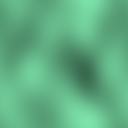
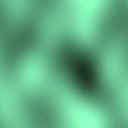
The forage walls were indistinguishable from its floor
Someone watched the video and said the walls look the same as the ground. They
did. Measured, the two textures had contrast 0.126 and 0.122 and the same
dominant spatial period -- identical statistics with a brightness offset.

That offset is not a cue. A fly photoreceptor adapts the mean away, so what is
left to tell a surface by is the scale and contrast of its structure, and those
were the same. The d-prime of 1.86 I quoted when building the arena measured
separability of MEAN LUMINANCE, which is exactly the quantity adaptation
removes. I measured the one cue the animal cannot use and called the arena
done.

Fixed by setting both textures to explicit contrasts rather than to amplitudes
that happened to land in the same place: wall 0.22 against ground 0.08, a
factor of 2.7, with mean 174 against 106 and six times the local detail. Three
independent cues, two of which survive adaptation.

This also confounded a result. behav_forage put the intact model at -5.00,
worse than the striped arena, and that was read as the arena being harder. It
may have been the arena being unreadable. paper/data/behav_forage2 re-runs it
on the same seeds with the fix.

Claude-Session: https://claude.ai/code/session_01D3g1XNadVBbYAqNyaXtrY3

diff --git a/scripts/build_forage_arena.py b/scripts/build_forage_arena.py
@@ -95,6 +95,37 @@ BANDWIDTH = 1.2            # cycles; how tightly power sits on the period
 WALL_MEAN = 175.0
 WALL_HALF = 70.0
 
+# GROUND, and it must not look like the wall. Measured on the first version,
+# the two textures had contrast 0.126 against 0.122 and the same dominant
+# spatial period -- identical statistics with a brightness offset. That is no
+# cue at all to a fly, whose photoreceptors adapt the mean away; what is left
+# to tell a surface by is the SCALE and CONTRAST of its structure. So the
+# ground is built coarse and soft where the wall is fine and hard.
+FLOOR_MEAN = 118.0
+FLOOR_PERIOD_PX = 128      # as coarse as a 128 px tile can hold
+
+# Contrast is the cue that survives, so it is set explicitly rather than left
+# to whatever the noise happens to produce. Scale separation is limited here by
+# geometry -- the ground is nearer than the wall, so equal world-sized features
+# subtend MORE angle on the floor, which works against making the floor look
+# coarser. Contrast and mean do not have that problem.
+WALL_CONTRAST = 0.22       # sd/mean: hard-edged, and what the detectors read
+FLOOR_CONTRAST = 0.08      # soft, a third of the wall's
+
+
+def _to_contrast(img, mean: float, contrast: float):
+    """Rescale a zero-mean pattern to an exact mean and sd/mean ratio.
+
+    Setting the amplitude and hoping is how the wall and the ground ended up
+    with contrasts of 0.126 and 0.122 -- indistinguishable -- while their
+    nominal half-ranges differed by half. What a fly discriminates surfaces by
+    is contrast, because adaptation removes the mean, so contrast is the thing
+    to set exactly rather than approximately.
+    """
+    z = img - img.mean()
+    z = z / (z.std() + 1e-9)
+    return mean + z * (mean * contrast)
+
 
 def wall_texture(size: int = 128, seed: int = 7) -> Image.Image:
     """Band-pass noise: local vertical edges everywhere, no tall bar anywhere.
@@ -138,9 +169,30 @@ def wall_texture(size: int = 128, seed: int = 7) -> Image.Image:
     phase = rng.uniform(0, 2 * np.pi, (size, size))
     img = np.real(np.fft.ifft2(ring * np.exp(1j * phase)))
     img -= img.mean(axis=0, keepdims=True)      # kill the tall-bar component
-    img = img / (np.abs(img).max() + 1e-9)
-    img = WALL_MEAN + img * WALL_HALF           # brighter than the ground
+    img = _to_contrast(img, WALL_MEAN, WALL_CONTRAST)
     rgb = np.stack([img * 0.55, img, img * 0.75], axis=-1)   # green-weighted
+    return Image.fromarray(rgb.clip(0, 255).astype("uint8"))
+
+
+def floor_texture(size: int = 128, seed: int = 11) -> Image.Image:
+    """Ground: coarse, soft, and dimmer than the wall.
+
+    A walking fly reads its ventral optic flow off this, so it needs structure;
+    what it must NOT have is the wall's structure. The wall is fine, hard-edged
+    and bright, so the ground is built three times coarser, at two thirds the
+    contrast, and darker. Those are three independent cues, and unlike a
+    brightness offset they survive photoreceptor adaptation, which removes the
+    mean and leaves the scale and the contrast.
+    """
+    rng = np.random.default_rng(seed)
+    fy, fx = np.meshgrid(np.fft.fftfreq(size) * size,
+                         np.fft.fftfreq(size) * size, indexing="ij")
+    f0 = size / FLOOR_PERIOD_PX
+    ring = np.exp(-((np.hypot(fy, fx) - f0) ** 2) / (2 * 0.8 ** 2))
+    img = np.real(np.fft.ifft2(ring * np.exp(
+        1j * rng.uniform(0, 2 * np.pi, (size, size)))))
+    img = _to_contrast(img, FLOOR_MEAN, FLOOR_CONTRAST)
+    rgb = np.stack([img * 0.5, img * 0.9, img * 0.65], axis=-1)
     return Image.fromarray(rgb.clip(0, 255).astype("uint8"))
 
 
@@ -274,14 +326,12 @@ def main() -> int:
 
     wall = args.out / "forage_wall.png"
     wall_texture().save(wall)
-    floor = args.out / "fly_floor.png"          # the bright ground, unchanged
+    floor = args.out / "forage_floor.png"
     sky = args.out / "sky_day.png"
-    if not floor.exists() or not sky.exists():
-        from build_fly_arena import floor_texture, sky_texture
-        if not floor.exists():
-            floor_texture().save(floor)
-        if not sky.exists():
-            sky_texture(sky)
+    floor_texture().save(floor)
+    if not sky.exists():
+        from build_fly_arena import sky_texture
+        sky_texture(sky)
 
     food = patch(blob(args.food_radius, FOOD_CORE, FOOD_EDGE))
     poison = patch(blob(args.poison_radius, POISON_CORE, POISON_EDGE))
